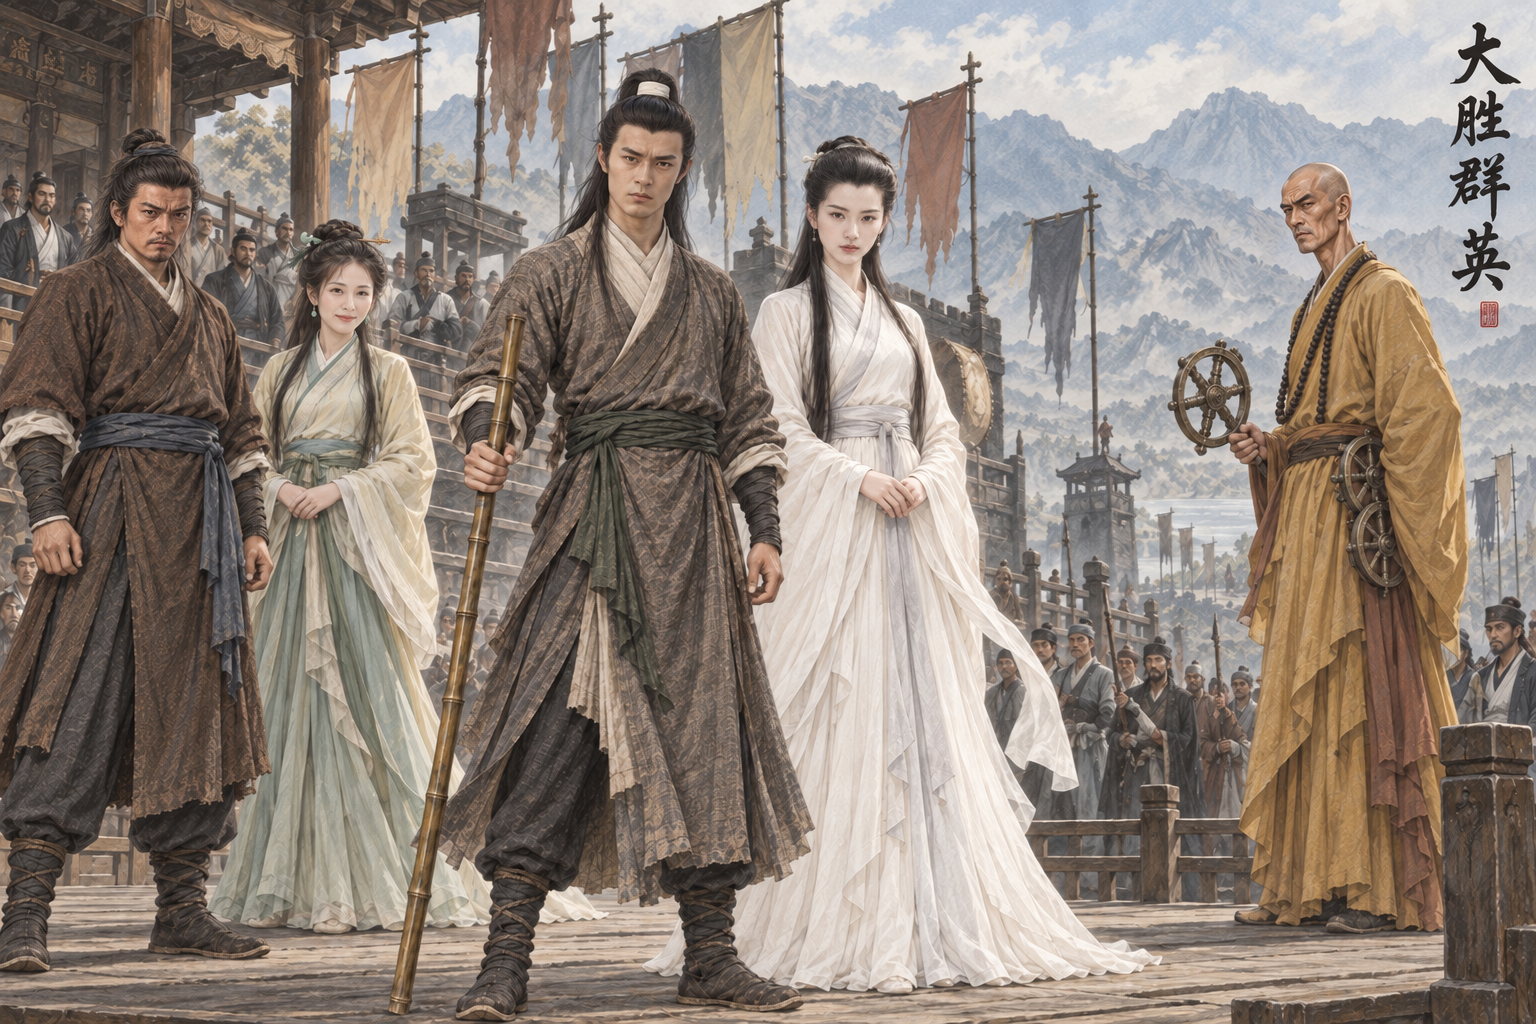
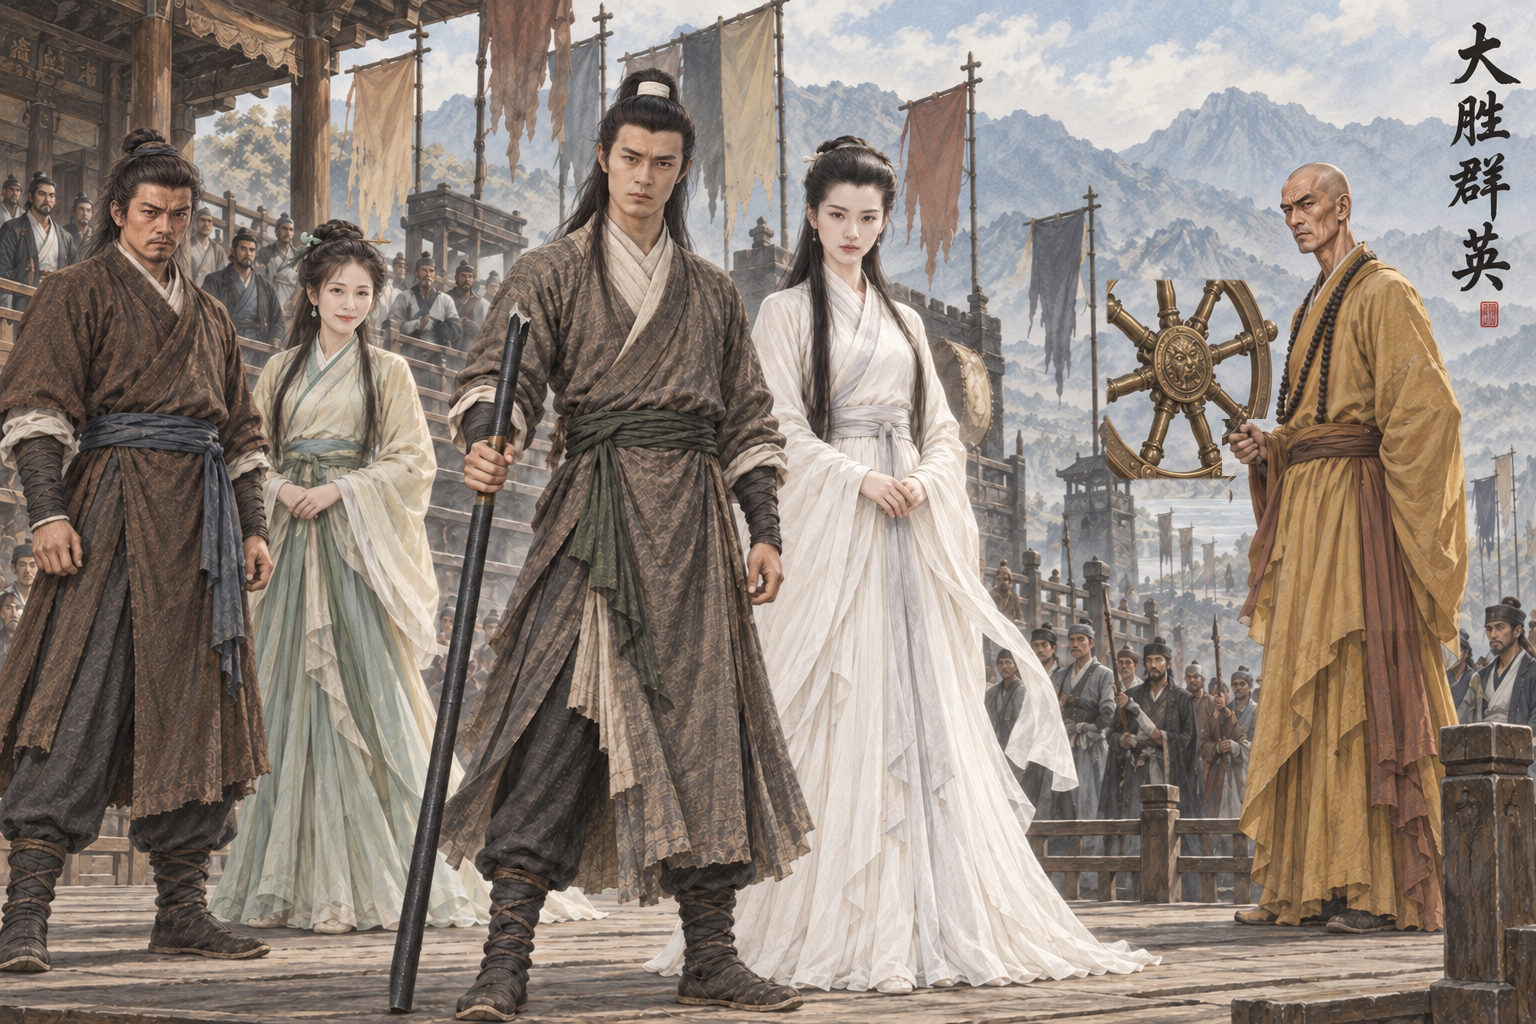
assets: AR-82 原著核对返修 大胜关插图同步断铁桨柄及实战大轮
原著摘句已同步提示词；已打开验图；蒙版外0像素变化。

Executed-By: Codex gpt-6.1-sol（AR-82）

diff --git a/assets/default/prompts/scenes/ch03-shendiao/cg_ch03_dashengguan_heroes.md b/assets/default/prompts/scenes/ch03-shendiao/cg_ch03_dashengguan_heroes.md
@@ -69,3 +69,8 @@ composite_job: cg_ch03_dashengguan_heroes.resume3
 排除项：不要文字、题字、字幕、水印、签名、Logo、边框或分镜格；不要未指定的多余人物（明确要求的远景群像除外）；不要幼态、儿童体态、性化处理、裸露或恋物特写；不要血腥特写、断肢、尸体堆叠或伤口细节；不要真人、演员、影视剧照复刻；不要多余肢体、手指错误、脸部融合、身份串脸、时代错装、现代物件、动漫风、摄影棚感、3D 塑料感。
 ```
 
+## 原著依据
+
+- 《神雕侠侣》第十三回 武林盟主：“这金轮径长尺半”；https://www.xuges.com/wuxia/jinyong/sdxl/092.htm
+- 《神雕侠侣》第十三回 武林盟主：“杨过却用铁桨柄去打他后臀”；https://www.xuges.com/wuxia/jinyong/sdxl/088.htm
+- AR-82 返修约束（本节优先于历史提示词）：只把正中杨过握的长竹杖改为断裂铁桨的黑色金属桨柄，顶部有断口、不画竹节，手与完整双臂不动。另将右侧金轮法王手中小金轮改成径长尺半的可实战大金轮，腰间小饰轮去掉、其余四轮收到袍下不露。杨过和法王的脸、衣服、手，郭靖黄蓉小龙女及其他人、题字朱印与背景完全不动。
